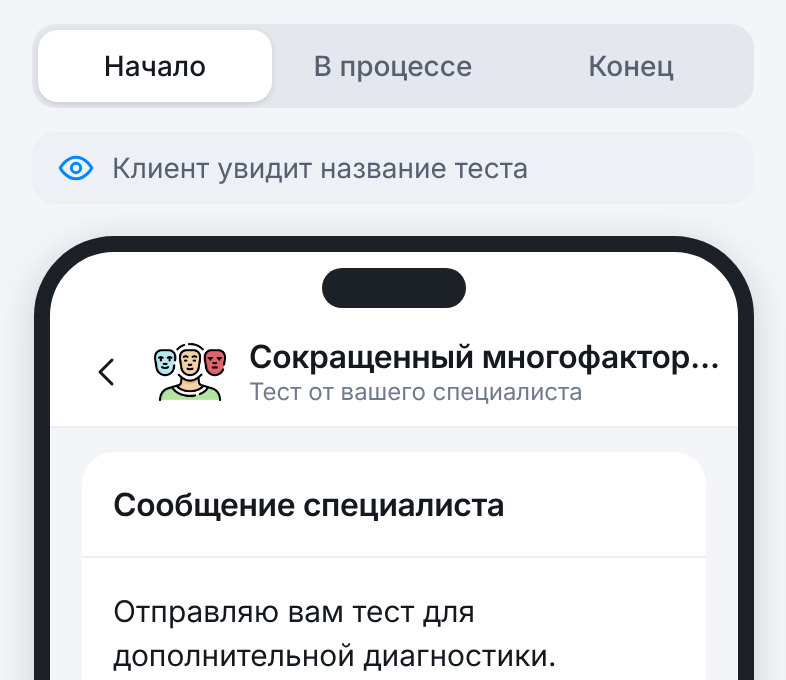
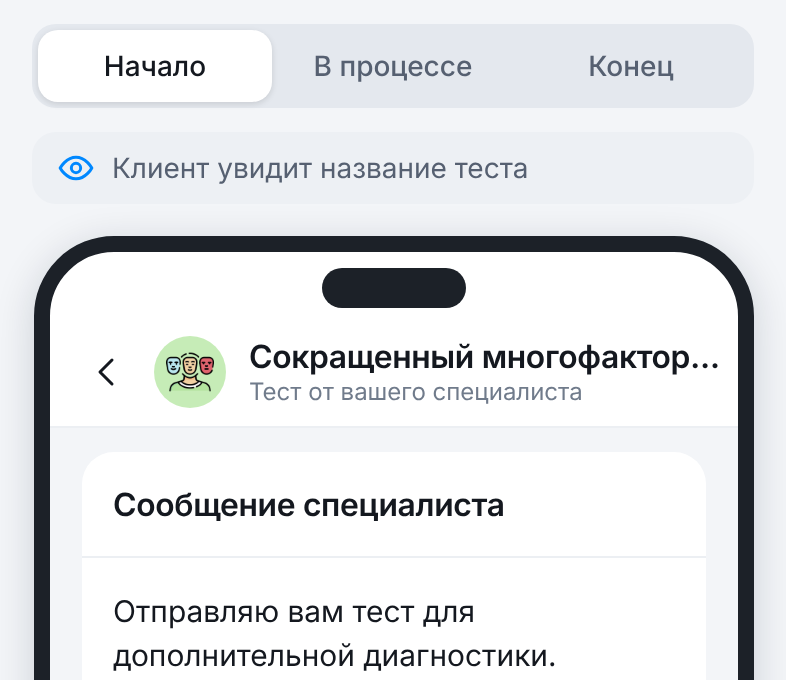
Списки: отступ 12 и название в одну строку; шапка теста как в чате; без подсветки выбора и «По умолчанию»; предпросмотр последним блоком
Claude-Session: https://claude.ai/code/session_01PkfaRYH7Rjk9UeiToMFzDy

Changed region(s): [[0.1832, 0.4941, 0.3053, 0.6176]]

diff --git a/src/components/LibraryCard/LibraryCard.css b/src/components/LibraryCard/LibraryCard.css
@@ -1,19 +1,20 @@
 /*
- * Строка списка библиотеки — как строка чата в «Диалогах» (ChatItem.css): без карточки, во всю ширину, поля 16 и 12, между строками
- * ни зазора, ни разделителя. Вместо аватара значок теста в круге 48, название и описание — как имя и сообщение, а сердечко
+ * Строка списка библиотеки — как строка чата в «Диалогах» (ChatItem.css): без карточки, во всю ширину, поля 16 и 12, между содержимым строк 12
+ * (поля строки по 6), ни зазора, ни разделителя. Вместо аватара значок теста в круге 48, название и описание — как имя и сообщение, а сердечко
  * «в избранное» сидит на правом нижнем краю значка. Основа (значок, название до двух строк, описание) общая с карточкой теста в чате
  * (TestCard.css), здесь она только перекрыта.
  */
 .lib-card {
   position: relative;
   background: var(--color-bg-row);
-  /* В длинном каталоге строки за экраном не раскладываются и не рисуются; 84 — типичная высота (название в две строки), браузер запоминает настоящую */
+  /* В длинном каталоге строки за экраном не раскладываются и не рисуются; 60 — типичная высота (значок 48 и поля по 6), браузер запоминает настоящую */
   content-visibility: auto;
-  contain-intrinsic-size: auto 84px;
+  contain-intrinsic-size: auto 60px;
 }
 
 .lib-card .test-card {
-  padding: var(--space-3) var(--space-4);
+  /* Поля сверху и снизу по 6: между содержимым соседних строк получается 12 */
+  padding: calc(var(--space-3) / 2) var(--space-4);
   border-radius: 0;
   background: none;
 }
@@ -33,9 +34,12 @@
   height: 32px;
 }
 
-/* Название как имя чата: 16, насыщенное */
+/* Название как имя чата: 16, насыщенное, в одну строку; длинное обрезается многоточием в конце */
 .lib-card .test-card__title {
+  display: block;
   font-size: var(--font-size-lg);
+  text-overflow: ellipsis;
+  white-space: nowrap;
 }
 
 /* Сердечко «в избранное» сидит на правом нижнем краю значка (на окружности круга 48, под углом 45°) в белом кружке 22:

diff --git a/src/components/TestSettings/TestHeader.tsx b/src/components/TestSettings/TestHeader.tsx
@@ -1,3 +1,4 @@
+import type { CSSProperties } from 'react';
 import { IconBack, IconHeartGrayLg, IconHeartRedLg } from '../icons';
 import { toggleFavorite, toggleTaskFavorite, useFavorites, useTaskFavorites, type LibraryItem } from '../../data/library';
 import { BLIND_TITLE } from '../../data/resultMode';
@@ -20,7 +21,7 @@ interface TestHeaderProps {
   client?: { blind?: boolean };
 }
 
-/** Шапка экранов теста: назад, иконка, название, раздел и сердечко «в избранное» */
+/** Шапка экранов теста — как шапка открытого чата: назад, аватарка теста, название, раздел и сердечко «в избранное» на месте поиска и настроек */
 export function TestHeader({ test, kind = 'test', status, onBack, client }: TestHeaderProps) {
   const testFavorites = useFavorites();
   const taskFavorites = useTaskFavorites();
@@ -33,7 +34,11 @@ export function TestHeader({ test, kind = 'test', status, onBack, client }: Test
         <IconBack />
       </button>
       <div className="test-settings__peer">
-        {!hidden && <img className="test-settings__icon" src={test.icon} alt="" />}
+        {!hidden && (
+          <span className="test-settings__avatar" style={{ '--tint': test.tint } as CSSProperties}>
+            <img className="test-settings__icon" src={test.icon} alt="" />
+          </span>
+        )}
         <div className="test-settings__who">
           <h1 className="test-settings__name">{hidden ? BLIND_TITLE : shortTitle(test.title)}</h1>
           <p className="test-settings__status">{status}</p>

diff --git a/src/components/TestSettings/ResultChoice.tsx b/src/components/TestSettings/ResultChoice.tsx
@@ -9,8 +9,8 @@ export function ResultChoice({ value, onChange, compact = false }: { value: Resu
     <CollapseCard title="Итог для клиента" id="result-choice" help={compact ? <OptionHelp id="result" /> : undefined}>
       {!compact && <p className="result-choice__sub">Что клиент увидит сразу после прохождения</p>}
       <ul className="ts-rows" role="radiogroup" aria-label="Итог для клиента">
-        {RESULT_MODES.map(({ id, title, hint, badge }) => (
-          <li key={id} className={`ts-row result-choice__row${value === id ? ' result-choice__row--on' : ''}`}>
+        {RESULT_MODES.map(({ id, title, hint }) => (
+          <li key={id} className="ts-row result-choice__row">
             <label className="result-choice__label">
               <input
                 type="radio"
@@ -21,10 +21,7 @@ export function ResultChoice({ value, onChange, compact = false }: { value: Resu
               />
               <span className="blank-answer__radio" aria-hidden="true" />
               <span className="ts-row__text">
-                <span className="ts-row__label">
-                  {title}
-                  {badge && <span className="result-choice__badge">{badge}</span>}
-                </span>
+                <span className="ts-row__label">{title}</span>
                 {!compact && <span className="ts-row__hint">{hint}</span>}
               </span>
             </label>

diff --git a/src/components/TestSettings/TestSettings.tsx b/src/components/TestSettings/TestSettings.tsx
@@ -394,18 +394,6 @@ export function TestSettings({ test, chatId, onBack }: TestSettingsProps) {
                 <IconTestChevron className="ts-row__chevron" />
               </li>
             )}
-            {blank && (
-              <li
-                className="ts-row ts-row--link"
-                role="button"
-                tabIndex={0}
-                onClick={() => openView('preview')}
-                onKeyDown={(e) => e.key === 'Enter' && openView('preview')}
-              >
-                <span className="ts-row__link">Предпросмотр</span>
-                <IconTestChevron className="ts-row__chevron" />
-              </li>
-            )}
           </ul>
         )}
 
@@ -536,6 +524,21 @@ export function TestSettings({ test, chatId, onBack }: TestSettingsProps) {
         </section>
 
         <TopicTags id={test.id} />
+
+        {blank && (
+          <ul className="ts-card">
+            <li
+              className="ts-row ts-row--link"
+              role="button"
+              tabIndex={0}
+              onClick={() => openView('preview')}
+              onKeyDown={(e) => e.key === 'Enter' && openView('preview')}
+            >
+              <span className="ts-row__link">Предпросмотр</span>
+              <IconTestChevron className="ts-row__chevron" />
+            </li>
+          </ul>
+        )}
       </div>
 
       <div className="test-settings__cta">

diff --git a/src/components/TestSettings/TestSettings.css b/src/components/TestSettings/TestSettings.css
@@ -5,7 +5,7 @@
   min-height: 0;
 }
 
-/* Шапка как у чата, без вкладок: строка 56, кнопки 40, значок теста 36, снизу разделитель */
+/* Шапка как у чата, без вкладок: строка 56, кнопки 40, аватарка теста 36 (круг, как у чата), снизу разделитель */
 .test-settings__header {
   display: flex;
   flex-shrink: 0;
@@ -31,7 +31,7 @@
   opacity: 0.45;
 }
 
-/* Значок 36, gap 12, имя и раздел */
+/* Аватарка 36, gap 12, имя и раздел */
 .test-settings__peer {
   display: flex;
   flex: 1;
@@ -40,10 +40,32 @@
   min-width: 0;
 }
 
-.test-settings__icon {
+/* Круг цвета теста (75%), как аватар в списке; значок внутри 24 */
+.test-settings__avatar {
+  position: relative;
+  display: flex;
   flex-shrink: 0;
+  align-items: center;
+  justify-content: center;
   width: 36px;
   height: 36px;
+  border-radius: var(--radius-full);
+  isolation: isolate;
+}
+
+.test-settings__avatar::before {
+  content: '';
+  position: absolute;
+  inset: 0;
+  z-index: -1;
+  border-radius: inherit;
+  background: var(--tint);
+  opacity: 0.75;
+}
+
+.test-settings__icon {
+  width: 24px;
+  height: 24px;
 }
 
 .test-settings__who {

diff --git a/src/data/resultMode.ts b/src/data/resultMode.ts
@@ -1,8 +1,8 @@
 /** Что клиент увидит на экране сразу после прохождения теста */
 export type ResultMode = 'thanks' | 'score' | 'full';
 
-export const RESULT_MODES: { id: ResultMode; title: string; hint: string; badge?: string; value: string }[] = [
-  { id: 'thanks', title: 'Только благодарность', badge: 'По умолчанию', hint: 'Результат обсудите вместе на встрече', value: 'Только благодарность' },
+export const RESULT_MODES: { id: ResultMode; title: string; hint: string; value: string }[] = [
+  { id: 'thanks', title: 'Только благодарность', hint: 'Результат обсудите вместе на встрече', value: 'Только благодарность' },
   { id: 'score', title: 'Только баллы', hint: 'Баллы по шкалам без расшифровки', value: 'Только баллы' },
   { id: 'full', title: 'Полное заключение', hint: 'Баллы, уровни и расшифровка по каждой шкале', value: 'Полное заключение' },
 ];

diff --git a/src/components/TestSettings/ResultChoice.css b/src/components/TestSettings/ResultChoice.css
@@ -1,4 +1,4 @@
-/* Итог для клиента: пояснение, три строки с кружком справа и примечание; выбранная строка слегка подсвечена */
+/* Итог для клиента: пояснение, три строки с кружком справа и примечание */
 .result-choice__sub {
   margin: 0;
   padding: var(--space-3) var(--space-4) var(--space-2);
@@ -10,10 +10,6 @@
 .result-choice__row {
   padding: 0;
   transition: background-color 0.15s ease;
-}
-
-.result-choice__row--on {
-  background: color-mix(in srgb, var(--color-accent) 6%, transparent);
 }
 
 .result-choice__label {
@@ -42,16 +38,6 @@
   flex-wrap: wrap;
   gap: var(--space-2);
   align-items: center;
-}
-
-.result-choice__badge {
-  padding: 1px var(--space-2);
-  border-radius: var(--radius-pill);
-  background: var(--color-bg-fill);
-  color: var(--color-text-secondary);
-  font-size: var(--font-size-xs);
-  font-weight: var(--font-weight-medium);
-  line-height: var(--line-height-xs);
 }
 
 .result-choice__note {

diff --git a/src/components/TestSettings/TaskSettings.tsx b/src/components/TestSettings/TaskSettings.tsx
@@ -300,7 +300,6 @@ export function TaskSettings({ task, chatId, onBack }: TaskSettingsProps) {
             <ul className="ts-card">
               {link('Бланк задания', 'blank')}
               {link('Пример выполнения', 'example')}
-              {link('Предпросмотр', 'preview')}
             </ul>
 
             <CollapseCard title="Информация о задании">
@@ -424,6 +423,8 @@ export function TaskSettings({ task, chatId, onBack }: TaskSettingsProps) {
             </section>
 
             <TopicTags id={task.id} />
+
+            <ul className="ts-card">{link('Предпросмотр', 'preview')}</ul>
           </div>
 
           <div className="test-settings__cta">

diff --git a/src/components/TestSettings/FormMenu.tsx b/src/components/TestSettings/FormMenu.tsx
@@ -31,7 +31,7 @@ function FormSheet({ forms, value, hint, title, format, onPick, onClose }: FormS
           <section className="sheet__card form-menu__card">
             <ul className="ts-rows" role="radiogroup" aria-label={title}>
               {forms.map((f) => (
-                <li key={f} className={`ts-row result-choice__row${value === f ? ' result-choice__row--on' : ''}`}>
+                <li key={f} className="ts-row result-choice__row">
                   <label className="result-choice__label">
                     <input type="radio" className="blank-answer__input" name="form-menu" checked={value === f} onChange={() => onPick(f)} />
                     <span className="blank-answer__radio" aria-hidden="true" />

diff --git a/src/components/ChatItem/ChatItem.css b/src/components/ChatItem/ChatItem.css
@@ -1,4 +1,4 @@
-/* Строка чата: аватар 48, отступы 12 и 16; между чатами разделителя нет */
+/* Строка чата: аватар 48, поля 6 и 16 (между чатами 12), разделителя нет */
 .chat-item {
   background: var(--color-bg-row);
 }
@@ -8,7 +8,7 @@
   align-items: center;
   gap: var(--space-3);
   width: 100%;
-  padding: var(--space-3) var(--space-4);
+  padding: calc(var(--space-3) / 2) var(--space-4);
   text-align: left;
 }
 

diff --git a/src/pages/MessagesPage/MessagesPage.css b/src/pages/MessagesPage/MessagesPage.css
@@ -11,6 +11,7 @@
 /* Список на белой панели во всю высоту: ниже последнего чата тот же фон, а не пустота */
 .messages__list {
   flex: 1;
+  padding: calc(var(--space-3) / 2) 0;
   overflow-y: auto;
   background: var(--color-bg-row);
 }

diff --git a/src/pages/LibraryPage/LibraryPage.css b/src/pages/LibraryPage/LibraryPage.css
@@ -48,7 +48,7 @@
   flex-direction: column;
   gap: var(--space-2);
   min-height: 0;
-  padding: var(--space-3) var(--space-4) var(--space-2);
+  padding: calc(var(--space-3) / 2) var(--space-4) var(--space-2);
   overflow-y: auto;
   background: var(--color-bg-row);
 }
